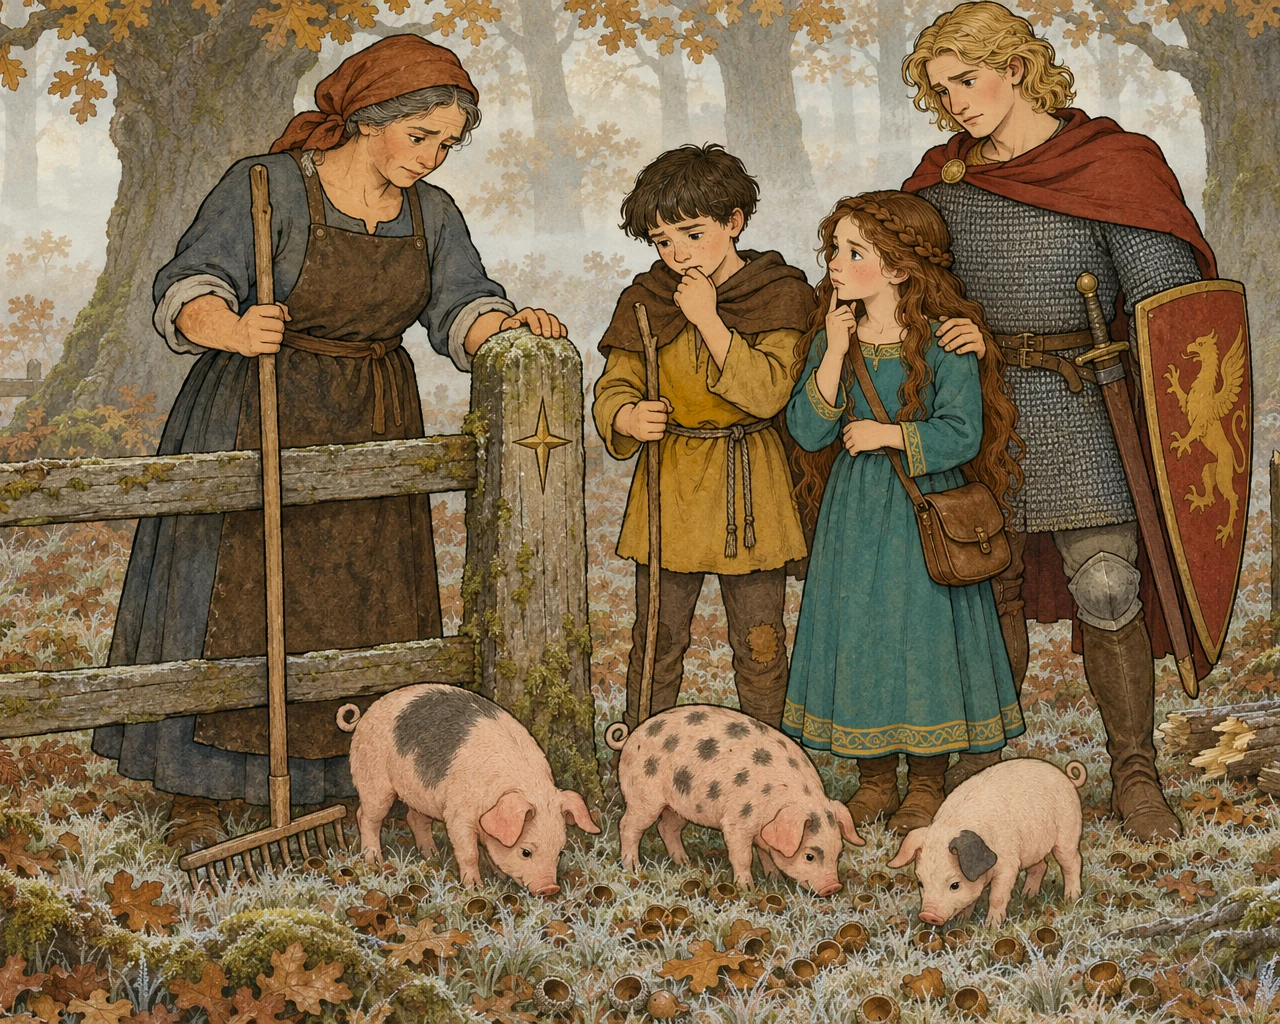
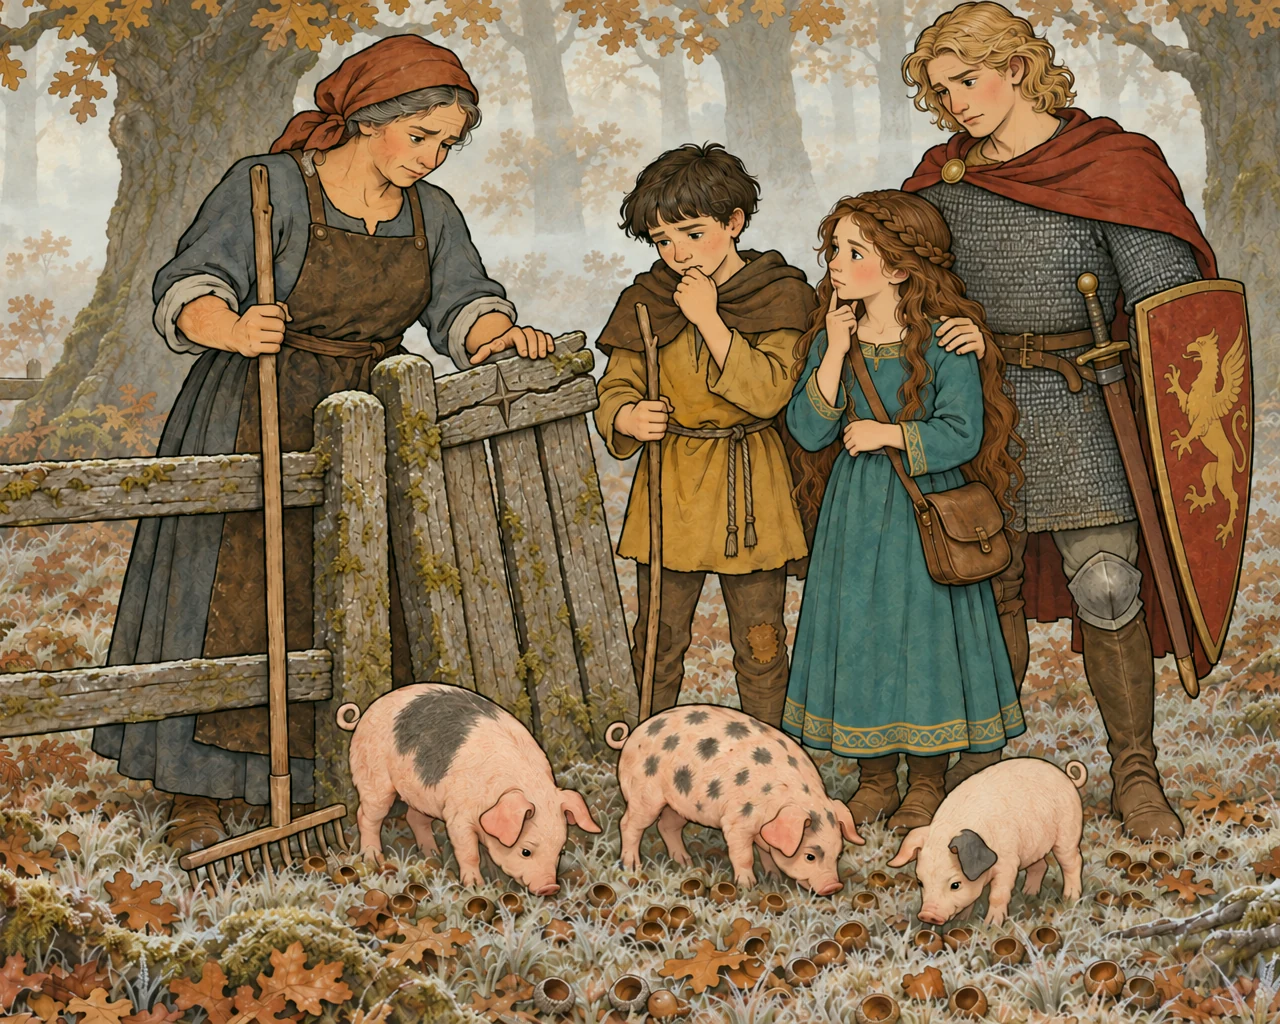
Forest p6-p9 redrawn: cracked carved star, a real chisel, Agata's hand on her rake; p9 help-fawn bound

diff --git a/src/book/pages.js b/src/book/pages.js
@@ -132,7 +132,7 @@ export const moonhillSpreads = [
 
 // Tale three. The oath's star is carved on one thing only, the crossbar of the Matecznik's gate
 // (docs/DECISIONS.md). Until a choice's second picture is generated, it shows the first one's
-// (REVIEW: replace p7-gather-forest, p9-help-fawn, p10-help-fawn).
+// (REVIEW: replace p7-gather-forest and p10-help-fawn).
 const p3FollowPiglets = img(`${FO}/p3-follow-piglets.webp`, "Świnki wbiegają przez otwartą furtkę do Matecznika, gdzie stoi Marcin; wyłamana furtka z pękniętą gwiazdką leży w trawie, a Oliwia klęczy z pustą czapeczką żołędzia na dłoni.", "The piglets trot through the open gateway into the Heartwood, where Marcin stands; the broken gate with its cracked star lies in the grass, and Oliwia kneels with an empty acorn cup in her palm.");
 const p5AskKindly = img(`${FO}/p5-ask-kindly.webp`, "Marcin z ręką na piersi mówi prawdę, Oliwia trzyma go za rękę, Agata kładzie mu dłoń na ramieniu, a Gustaw podnosi wyłamaną furtkę z pękniętą gwiazdką.", "Marcin, a hand on his chest, tells the truth; Oliwia holds his hand, Agata rests hers on his shoulder, and Gustaw lifts the broken gate with its cracked star.");
 const p7GiveSack = img(`${FO}/p7-give-sack.webp`, "Oliwia i Agata sypią żołędzie przez płot, Koniczynka niesie worek Marcina, Gustaw trzyma nową furtkę, a Marcin wycina dłutkiem gwiazdkę na jej poprzeczce.", "Oliwia and Agata pour acorns over the fence, Koniczynka carries Marcin's sack, Gustaw holds the new gate, and Marcin carves a star on its crossbar with a chisel.");
@@ -149,7 +149,7 @@ export const forestSpreads = [
   { page: 6, tailpiece: `${OR}/fleuron.webp`, images: { default: img(`${FO}/p6.webp`, "Agata opiera dłoń o wyłamaną furtkę z pękniętą gwiazdką; Marcin, Oliwia i Gustaw patrzą na świnki, które w szronie znajdują tylko puste czapeczki.", "Agata rests her hand on the broken gate with its cracked star; Marcin, Oliwia and Gustaw watch the piglets find only empty cups in the frost.") } },
   { page: 7, tailpiece: `${OR}/oak-wren.webp`, variantFrom: 6, images: { "give-sack": p7GiveSack, "gather-forest": p7GiveSack } },
   { page: 8, tailpiece: `${OR}/strawberry-snail.webp`, images: { default: img(`${FO}/p8.webp`, "Z mgły wychodzi jeleń ze złotą gwiazdką i łania; jelonek utknął za złamanym konarem, a wszyscy patrzą z zachwytem przy nowej furtce.", "Out of the mist step the stag with a gold star and the doe; the fawn is stuck behind a fallen branch, and everyone watches in wonder by the new gate.") } },
-  { page: 9, tailpiece: `${OR}/hedgehog-clover.webp`, variantFrom: 8, images: { "make-way": p9MakeWay, "help-fawn": p9MakeWay } },
+  { page: 9, tailpiece: `${OR}/hedgehog-clover.webp`, variantFrom: 8, images: { "make-way": p9MakeWay, "help-fawn": img(`${FO}/p9-help-fawn.webp`, "Jeleń z gwiazdką prowadzi ścieżką łanię i jelonka, za nimi idą Oliwia i Marcin ręka w rękę, Gustaw z Koniczynką i Agata; odciągnięty konar leży z boku ścieżki, a w oddali stoi nowa furtka Matecznika.", "The star stag leads the doe and the fawn down the path, followed by Oliwia and Marcin hand in hand, Gustaw with Koniczynka, and Agata; the pulled-away branch lies at the side of the trail, and the Heartwood's new gate stands in the distance.") } },
   {
     page: 10, layout: "vignette", variantFrom: 8, secondary: img(`${OR}/fleuron.webp`, "Ozdobnik.", "An ornament."),
     images: { "make-way": p10MakeWay, "help-fawn": p10MakeWay },
